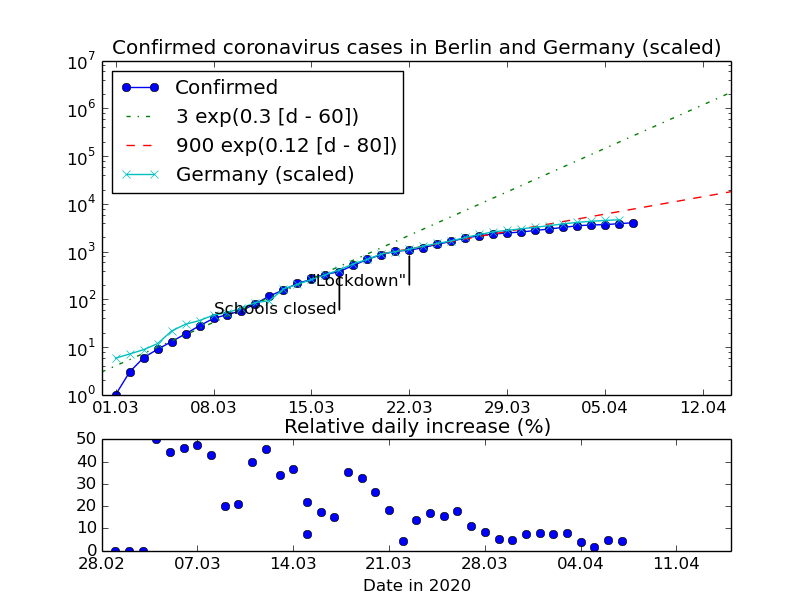
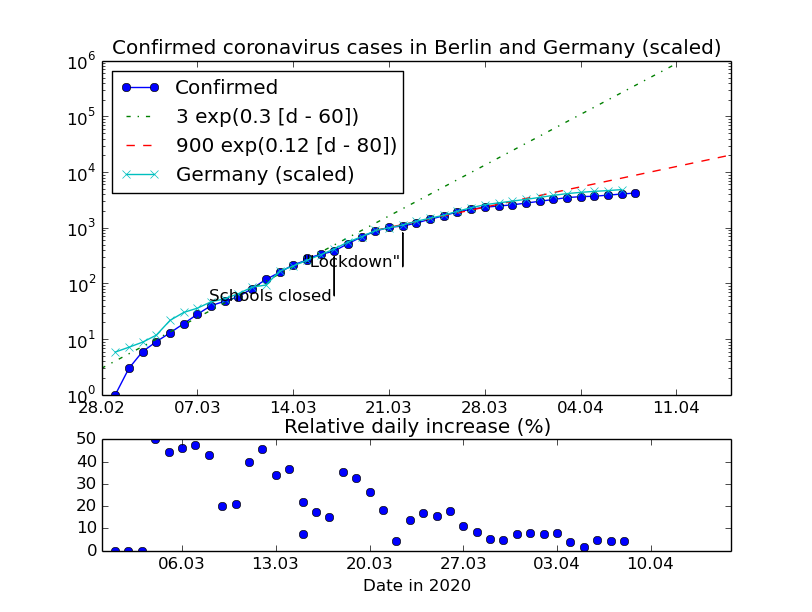
Update for 2020-04-08

diff --git a/plot.py b/plot.py
@@ -43,9 +43,9 @@ horizon_datetime = datetimes[-1] + datetime.timedelta(future_days, 0, 0, 0)
 #
 print('Horizon:', horizon_datetime)
 
-doys_z = np.linspace(60, horizon)
+doys_z = np.linspace(60, 102, 43)  # Just to 2020-04-11
 z = A * np.exp(r * (doys_z - 60))
-print('On', horizon_datetime, 'predict', int(z[-1]))
+print('On', doys_z[-1], 'predict', int(z[-1]))
 
 A_2 = 900   # n(doy=080) was 868
 r_2 = 0.12
